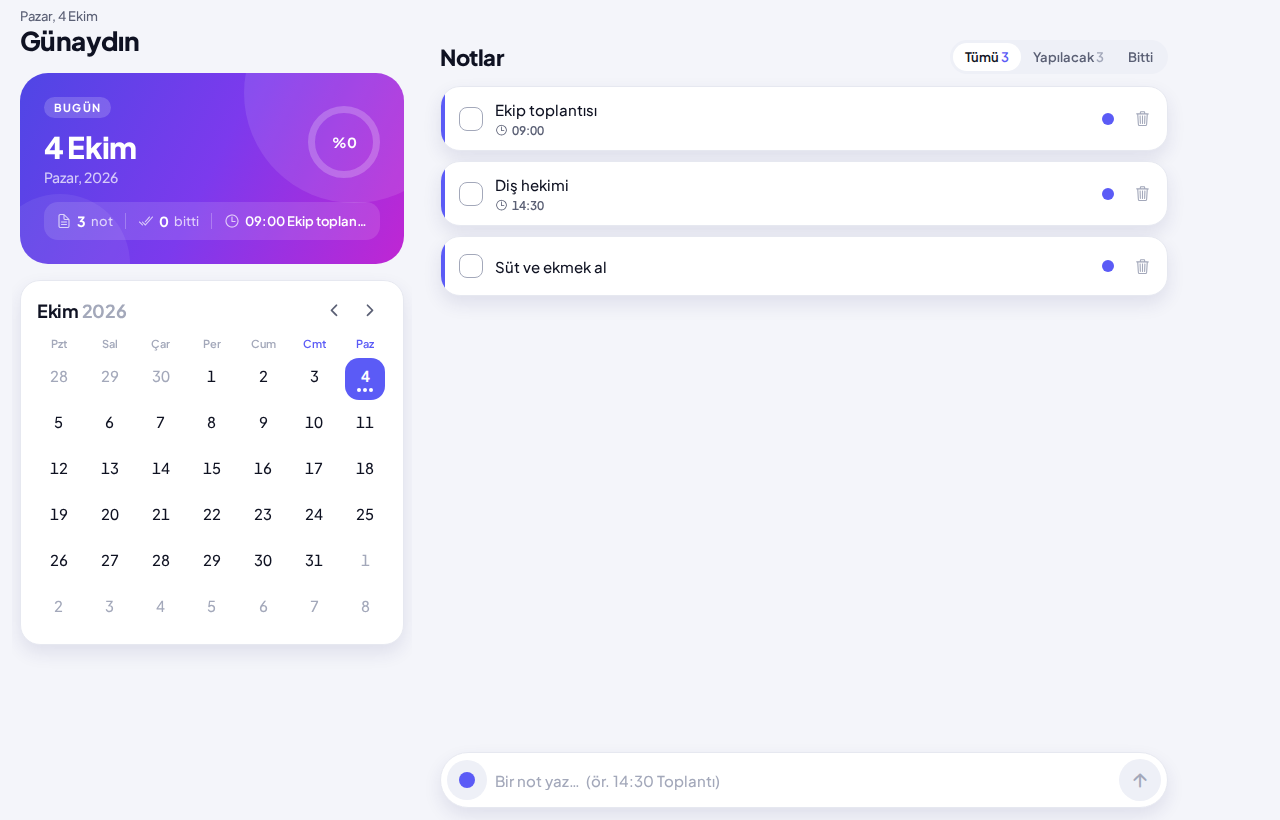
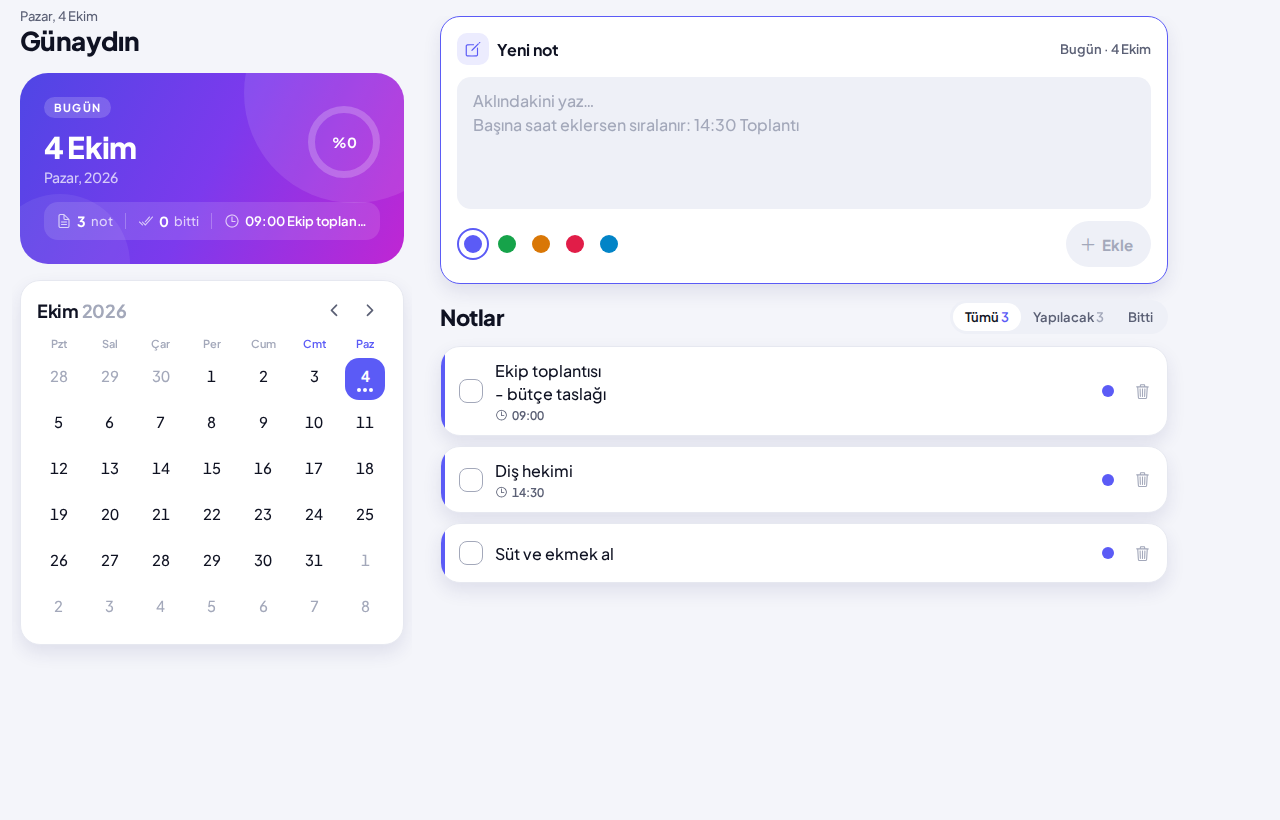
Geniş, çok satırlı "Yeni not" kartı; çok satırlı not düzenleme
Claude-Session: https://claude.ai/code/session_01JXMiv5nUjHe3kdQpGL5PpH

diff --git a/src/components/Composer.tsx b/src/components/Composer.tsx
@@ -1,21 +1,26 @@
-// Not yazma çubuğu: renk seçici, metin alanı ve gradyanlı gönder düğmesi.
+// Not yazma kartı: çok satırlı geniş yazı alanı, renk seçimi ve gradyanlı "Ekle" düğmesi.
+// Web'de Ctrl/Cmd + Enter ile de eklenir; telefonda Enter yeni satır açar.
 
 import Ionicons from '@expo/vector-icons/Ionicons';
 import { LinearGradient } from 'expo-linear-gradient';
 import { forwardRef, useState } from 'react';
-import { Pressable, StyleSheet, TextInput, View } from 'react-native';
-import Animated, { FadeIn, FadeOut } from 'react-native-reanimated';
+import { Platform, Pressable, StyleSheet, Text, TextInput, View } from 'react-native';
 
 import { cardShadow, Fonts, NOTE_TAG_KEYS, NoteTags, Radius, Space, tagColor, usePalette, type NoteTag } from '../constants/theme';
+import { fromISODate, TR_MONTHS } from '../services/calendar';
 import { useAgenda } from '../state/AgendaContext';
+import { webNoOutline } from './webStyles';
+import { dayLabel } from './SummaryCard';
 
 const Composer = forwardRef<TextInput>(function Composer(_props, ref) {
   const c = usePalette();
-  const { addNote } = useAgenda();
+  const { addNote, date } = useAgenda();
   const [text, setText] = useState('');
   const [color, setColor] = useState<NoteTag>('indigo');
-  const [picking, setPicking] = useState(false);
+  const [focused, setFocused] = useState(false);
   const canSend = text.trim().length > 0;
+  const d = fromISODate(date);
+  const tint = tagColor(color, c);
 
   const submit = async () => {
     if (!canSend) return;
@@ -26,61 +31,84 @@ const Composer = forwardRef<TextInput>(function Composer(_props, ref) {
   };
 
   return (
-    <View style={styles.wrap}>
-      {picking && (
-        <Animated.View
-          entering={FadeIn.duration(150)}
-          exiting={FadeOut.duration(120)}
-          style={[styles.palette, { backgroundColor: c.surface, borderColor: c.border }, cardShadow(c)]}
-        >
-          {NOTE_TAG_KEYS.map((k) => (
-            <Pressable
-              key={k}
-              onPress={() => {
-                setColor(k);
-                setPicking(false);
-              }}
-              accessibilityRole="button"
-              accessibilityLabel={NoteTags[k].label}
-              style={[styles.swatchRing, k === color && { borderColor: tagColor(k, c) }]}
-            >
-              <View style={[styles.swatch, { backgroundColor: tagColor(k, c) }]} />
-            </Pressable>
-          ))}
-        </Animated.View>
-      )}
+    <View
+      style={[
+        styles.card,
+        { backgroundColor: c.surface, borderColor: focused ? tint : c.border },
+        cardShadow(c),
+      ]}
+    >
+      <View style={styles.head}>
+        <View style={[styles.headIcon, { backgroundColor: c.accentSoft }]}>
+          <Ionicons name="create-outline" size={18} color={c.accent} />
+        </View>
+        <Text style={[styles.headTitle, { color: c.text }]}>Yeni not</Text>
+        <Text style={[styles.headDate, { color: c.textMuted }]}>
+          {dayLabel(date)} · {d.getDate()} {TR_MONTHS[d.getMonth()]}
+        </Text>
+      </View>
 
-      <View style={[styles.bar, { backgroundColor: c.surface, borderColor: c.border }, cardShadow(c)]}>
-        <Pressable
-          onPress={() => setPicking((v) => !v)}
-          accessibilityRole="button"
-          accessibilityLabel="Not rengi"
-          style={[styles.colorBtn, { backgroundColor: c.surfaceAlt }]}
-        >
-          <View style={[styles.swatch, { backgroundColor: tagColor(color, c) }]} />
-        </Pressable>
-        <TextInput
-          ref={ref}
-          value={text}
-          onChangeText={setText}
-          onSubmitEditing={submit}
-          submitBehavior="submit"
-          returnKeyType="send"
-          placeholder="Bir not yaz…  (ör. 14:30 Toplantı)"
-          placeholderTextColor={c.textFaint}
-          style={[styles.input, { color: c.text }]}
-          accessibilityLabel="Yeni not"
-        />
+      <TextInput
+        ref={ref}
+        value={text}
+        onChangeText={setText}
+        multiline
+        textAlignVertical="top"
+        onFocus={() => setFocused(true)}
+        onBlur={() => setFocused(false)}
+        onKeyPress={(e) => {
+          // Web: Ctrl/Cmd + Enter ile ekle
+          const ne = e.nativeEvent as unknown as { key: string; ctrlKey?: boolean; metaKey?: boolean };
+          if (Platform.OS === 'web' && ne.key === 'Enter' && (ne.ctrlKey || ne.metaKey)) {
+            (e as unknown as { preventDefault?: () => void }).preventDefault?.();
+            submit();
+          }
+        }}
+        placeholder={'Aklındakini yaz…\nBaşına saat eklersen sıralanır: 14:30 Toplantı'}
+        placeholderTextColor={c.textFaint}
+        style={[styles.input, webNoOutline, { color: c.text, backgroundColor: c.surfaceAlt }]}
+        accessibilityLabel="Yeni not"
+      />
+
+      <View style={styles.foot}>
+        <View style={styles.swatches}>
+          {NOTE_TAG_KEYS.map((k) => {
+            const active = k === color;
+            return (
+              <Pressable
+                key={k}
+                onPress={() => setColor(k)}
+                hitSlop={4}
+                accessibilityRole="radio"
+                accessibilityState={{ selected: active }}
+                accessibilityLabel={NoteTags[k].label}
+                style={[styles.swatchRing, active && { borderColor: tagColor(k, c) }]}
+              >
+                <View style={[styles.swatch, { backgroundColor: tagColor(k, c) }]} />
+              </Pressable>
+            );
+          })}
+        </View>
+
         <Pressable onPress={submit} disabled={!canSend} accessibilityRole="button" accessibilityLabel="Notu ekle">
-          {canSend ? (
-            <LinearGradient colors={c.hero} start={{ x: 0, y: 0 }} end={{ x: 1, y: 1 }} style={styles.send}>
-              <Ionicons name="arrow-up" size={20} color={c.onHero} />
-            </LinearGradient>
-          ) : (
-            <View style={[styles.send, { backgroundColor: c.surfaceAlt }]}>
-              <Ionicons name="arrow-up" size={20} color={c.textFaint} />
-            </View>
-          )}
+          {({ pressed }) =>
+            canSend ? (
+              <LinearGradient
+                colors={c.hero}
+                start={{ x: 0, y: 0 }}
+                end={{ x: 1, y: 1 }}
+                style={[styles.send, pressed && { opacity: 0.85 }]}
+              >
+                <Ionicons name="add" size={20} color={c.onHero} />
+                <Text style={[styles.sendText, { color: c.onHero }]}>Ekle</Text>
+              </LinearGradient>
+            ) : (
+              <View style={[styles.send, { backgroundColor: c.surfaceAlt }]}>
+                <Ionicons name="add" size={20} color={c.textFaint} />
+                <Text style={[styles.sendText, { color: c.textFaint }]}>Ekle</Text>
+              </View>
+            )
+          }
         </Pressable>
       </View>
     </View>
@@ -90,26 +118,24 @@ const Composer = forwardRef<TextInput>(function Composer(_props, ref) {
 export default Composer;
 
 const styles = StyleSheet.create({
-  wrap: { gap: Space.sm },
-  bar: {
-    flexDirection: 'row',
-    alignItems: 'center',
-    gap: Space.sm,
-    padding: 6,
-    borderRadius: Radius.pill,
-    borderWidth: StyleSheet.hairlineWidth,
+  card: { borderRadius: Radius.lg, borderWidth: 1.5, padding: Space.lg, gap: Space.md },
+  head: { flexDirection: 'row', alignItems: 'center', gap: Space.sm },
+  headIcon: { width: 32, height: 32, borderRadius: 10, alignItems: 'center', justifyContent: 'center' },
+  headTitle: { fontFamily: Fonts.bold, fontSize: 16, flex: 1 },
+  headDate: { fontFamily: Fonts.semibold, fontSize: 13 },
+  input: {
+    minHeight: 132,
+    maxHeight: 260,
+    borderRadius: Radius.md,
+    paddingHorizontal: Space.lg,
+    paddingTop: Space.md,
+    paddingBottom: Space.md,
+    fontFamily: Fonts.medium,
+    fontSize: 16,
+    lineHeight: 24,
   },
-  colorBtn: { width: 40, height: 40, borderRadius: 20, alignItems: 'center', justifyContent: 'center' },
-  input: { flex: 1, fontFamily: Fonts.medium, fontSize: 15, paddingVertical: Space.sm, minWidth: 0 },
-  send: { width: 42, height: 42, borderRadius: 21, alignItems: 'center', justifyContent: 'center' },
-  palette: {
-    flexDirection: 'row',
-    alignSelf: 'flex-start',
-    gap: Space.xs,
-    padding: 6,
-    borderRadius: Radius.pill,
-    borderWidth: StyleSheet.hairlineWidth,
-  },
+  foot: { flexDirection: 'row', alignItems: 'center', justifyContent: 'space-between', gap: Space.md },
+  swatches: { flexDirection: 'row', alignItems: 'center', gap: 2 },
   swatchRing: {
     width: 32,
     height: 32,
@@ -119,5 +145,15 @@ const styles = StyleSheet.create({
     alignItems: 'center',
     justifyContent: 'center',
   },
-  swatch: { width: 16, height: 16, borderRadius: 8 },
+  swatch: { width: 18, height: 18, borderRadius: 9 },
+  send: {
+    flexDirection: 'row',
+    alignItems: 'center',
+    gap: 4,
+    height: 46,
+    paddingLeft: Space.md,
+    paddingRight: Space.lg + 2,
+    borderRadius: Radius.pill,
+  },
+  sendText: { fontFamily: Fonts.bold, fontSize: 15 },
 });

diff --git a/src/components/AgendaScreen.tsx b/src/components/AgendaScreen.tsx
@@ -1,5 +1,5 @@
-// Ana panel. Telefonda: selam başlığı, özet kartı, takvim, notlar tek kaydırmada; yazma çubuğu altta sabit.
-// Tablette: solda özet + aylık takvim, sağda notlar ve yazma çubuğu.
+// Ana panel. Telefonda: selam başlığı, özet kartı, takvim, yeni not kartı ve notlar tek kaydırmada.
+// Tablette: solda özet + aylık takvim, sağda yeni not kartı ve notlar.
 
 import { useMemo, useRef, useState } from 'react';
 import { FlatList, KeyboardAvoidingView, Platform, ScrollView, StyleSheet, Text, TextInput, useWindowDimensions, View } from 'react-native';
@@ -79,6 +79,7 @@ export default function AgendaScreen() {
       ListHeaderComponent={
         <View style={styles.listHeader}>
           {header}
+          <Composer ref={composerRef} />
           <NotesHeader filter={filter} onFilter={setFilter} counts={counts} />
         </View>
       }
@@ -102,12 +103,7 @@ export default function AgendaScreen() {
               <SummaryCard />
               <CalendarCard alwaysMonth />
             </ScrollView>
-            <View style={styles.main}>
-              {list()}
-              <View style={styles.composer}>
-                <Composer ref={composerRef} />
-              </View>
-            </View>
+            <View style={styles.main}>{list()}</View>
           </View>
         ) : (
           <View style={styles.root}>
@@ -118,9 +114,6 @@ export default function AgendaScreen() {
                 <CalendarCard />
               </>,
             )}
-            <View style={styles.composer}>
-              <Composer ref={composerRef} />
-            </View>
           </View>
         )}
       </KeyboardAvoidingView>
@@ -134,10 +127,9 @@ const styles = StyleSheet.create({
   topDate: { fontFamily: Fonts.medium, fontSize: 13 },
   greet: { fontFamily: Fonts.extrabold, fontSize: 26, letterSpacing: -0.6 },
   listHeader: { gap: Space.lg, paddingBottom: Space.md },
-  listContent: { paddingHorizontal: Space.lg, paddingBottom: Space.xl },
-  composer: { paddingHorizontal: Space.lg, paddingTop: Space.sm, paddingBottom: Space.md },
+  listContent: { paddingHorizontal: Space.lg, paddingBottom: 48 },
   wide: { flex: 1, flexDirection: 'row', paddingHorizontal: Space.md, gap: Space.md },
   side: { width: 400, flexGrow: 0 },
   sideContent: { gap: Space.lg, paddingHorizontal: Space.sm, paddingBottom: Space.xl },
-  main: { flex: 1, maxWidth: 760, paddingTop: Space.xl + Space.lg },
+  main: { flex: 1, maxWidth: 760, paddingTop: Space.lg },
 });

diff --git a/src/components/NoteCard.tsx b/src/components/NoteCard.tsx
@@ -8,6 +8,7 @@ import Animated, { FadeInDown, FadeOut, LinearTransition } from 'react-native-re
 import { cardShadow, Fonts, NOTE_TAG_KEYS, Radius, Space, tagColor, usePalette } from '../constants/theme';
 import type { EntryWithDate } from '../db/repository';
 import { useAgenda } from '../state/AgendaContext';
+import { webNoOutline } from './webStyles';
 
 /** Düzenleme alanına geri yazarken saat başa eklenir: "14:30 Diş hekimi" */
 const toDraft = (n: EntryWithDate) => (n.time_slot ? `${n.time_slot} ${n.text_content}` : n.text_content);
@@ -69,12 +70,11 @@ export default function NoteCard({
       {editing ? (
         <TextInput
           autoFocus
+          multiline
           value={draft}
           onChangeText={setDraft}
-          onSubmitEditing={commit}
           onBlur={commit}
-          submitBehavior="blurAndSubmit"
-          style={[styles.input, { color: c.text, borderColor: c.accent }]}
+          style={[styles.input, webNoOutline, { color: c.text, borderColor: c.accent }]}
         />
       ) : (
         <Pressable onPress={onEdit} style={styles.body} accessibilityHint="Düzenlemek için dokun">
@@ -135,14 +135,15 @@ const styles = StyleSheet.create({
   stripe: { position: 'absolute', left: 0, top: 0, bottom: 0, width: 4 },
   check: { width: 24, height: 24, borderRadius: 8, borderWidth: 1.8, alignItems: 'center', justifyContent: 'center' },
   body: { flex: 1, paddingVertical: Space.md, gap: 3 },
-  text: { fontFamily: Fonts.medium, fontSize: 15, lineHeight: 21 },
+  text: { fontFamily: Fonts.medium, fontSize: 16, lineHeight: 23 },
   struck: { textDecorationLine: 'line-through' },
   meta: { flexDirection: 'row', alignItems: 'center', gap: 4 },
   time: { fontFamily: Fonts.semibold, fontSize: 12, fontVariant: ['tabular-nums'] },
   input: {
     flex: 1,
     fontFamily: Fonts.medium,
-    fontSize: 15,
+    fontSize: 16,
+    lineHeight: 23,
     paddingVertical: Space.sm,
     marginVertical: Space.sm,
     borderBottomWidth: 1.5,

diff --git a/src/components/NotesSection.tsx b/src/components/NotesSection.tsx
@@ -57,11 +57,11 @@ export function EmptyNotes({ filtered, onWrite }: { filtered: boolean; onWrite: 
         <Ionicons name={filtered ? 'filter-outline' : 'create-outline'} size={26} color={c.accent} />
       </View>
       <Text style={[styles.emptyTitle, { color: c.text }]}>
-        {filtered ? 'Bu filtrede not yok' : 'Gün boş, ilk notu yaz'}
+        {filtered ? 'Bu filtrede not yok' : 'Bu gün için henüz not yok'}
       </Text>
       {!filtered && (
         <Text style={[styles.emptyHint, { color: c.textMuted }]}>
-          Başına saat yazarsan sıralanır: "14:30 Diş hekimi"
+          Yukarıdaki alana yaz, "Ekle"ye dokun.
         </Text>
       )}
     </Pressable>

diff --git a/src/services/__tests__/notes.test.ts b/src/services/__tests__/notes.test.ts
@@ -20,4 +20,8 @@ describe('parseNote', () => {
     });
     expect(parseNote('12:00')).toEqual({ text: '12:00', time: null });
   });
+
+  it('çok satırlı notta baştaki saati ayırır, satırları korur', () => {
+    expect(parseNote('14:30 Toplantı\n- bütçe\n- takvim')).toEqual({ text: 'Toplantı\n- bütçe\n- takvim', time: '14:30' });
+  });
 });

diff --git a/src/components/webStyles.ts b/src/components/webStyles.ts
@@ -1,0 +1,5 @@
+// Web'e özgü stil düzeltmeleri. Tarayıcının varsayılan odak çerçevesi kendi odak tasarımımızla çakışır.
+
+import { Platform, type TextStyle } from 'react-native';
+
+export const webNoOutline = (Platform.OS === 'web' ? { outlineStyle: 'none' } : {}) as TextStyle;

diff --git a/CLAUDE.md b/CLAUDE.md
@@ -1,7 +1,7 @@
 # Chronos — Mimari Kurallar
 
 Şık ve sade ajanda paneli: selam başlığı, gradyanlı gün özeti, hafta şeridi / açılır ay takvimi, renk
-etiketli not kartları ve altta sabit yazma çubuğu. Bir güne dokun, hemen yaz. Expo SDK 57 + React Native + TypeScript. Expo Go'da çalışır.
+etiketli not kartları ve takvimin altında geniş, çok satırlı "Yeni not" kartı. Bir güne dokun, hemen yaz. Expo SDK 57 + React Native + TypeScript. Expo Go'da çalışır.
 
 > 2026-10-04: Kullanıcı ilk "fiziksel defter" tasarımını (deri kapak, Skia kağıt, el yazısı, sayfa kıvırma,
 > sesli not) eski bulup sade bir tasarım istedi. O sürüm git geçmişinde `d5a5458` commit'indedir.
@@ -27,7 +27,7 @@ App.tsx                 Kök: veri tabanı sürücüsü, AgendaProvider, yüklen
 index.web.ts            Web girişi: sql.js yüklendikten sonra App'i kaydeder
 src/
   components/           AgendaScreen (düzen), SummaryCard + ProgressRing, CalendarCard (hafta/ay),
-                        NotesSection (başlık, filtre, boş durum), NoteCard, Composer (renk + yazma)
+                        NotesSection (başlık, filtre, boş durum), NoteCard, Composer (çok satırlı "Yeni not" kartı)
   constants/theme.ts    Açık/koyu palet, not renk etiketleri, yazı tipleri, ölçüler, usePalette()
   state/AgendaContext   Seçili gün, o günün notları, ekle/düzenle/tamamla/sil
   services/             calendar.ts (tarih yardımcıları), notes.ts (nottan saat ayıklama), haptics.ts

diff --git a/README.md b/README.md
@@ -20,10 +20,10 @@ Telefon ve bilgisayar aynı Wi-Fi ağında olmalı. Olmuyorsa `npx expo start --
 
 ## Kullanım
 
-- Takvimde bir güne dokun; alttaki alana notunu yaz ve gönder.
+- Takvimde bir güne dokun; "Yeni not" kartındaki geniş alana yaz (çok satır olabilir) ve "Ekle"ye dokun. Bilgisayarda Ctrl/Cmd + Enter da ekler.
 - Notun başına veya sonuna saat yazarsan saat etiketi olur ve gün içinde sıralanır: `14:30 Diş hekimi`.
 - Kutucuğa dokununca not tamamlanır, metne dokununca düzenlenir, çöp kutusu ile silinir.
-- Yazma çubuğundaki renkli daireden notun rengini seç; karttaki renkli noktaya dokunarak sonradan değiştir.
+- "Ekle" düğmesinin yanındaki renklerden notun rengini seç; not kartındaki renkli noktaya dokunarak sonradan değiştir.
 - Üstteki kart günün özetini gösterir: not sayısı, tamamlanma yüzdesi ve sıradaki saatli not.
 - Takvim hafta şeridi olarak açılır; takvim simgesiyle tüm ayı aç. Notu olan günlerin altında nokta görünür.
 - "Tümü / Yapılacak / Bitti" sekmeleriyle notları süz. Başka bir gündeyken sağ üstteki düğme bugüne döner.
